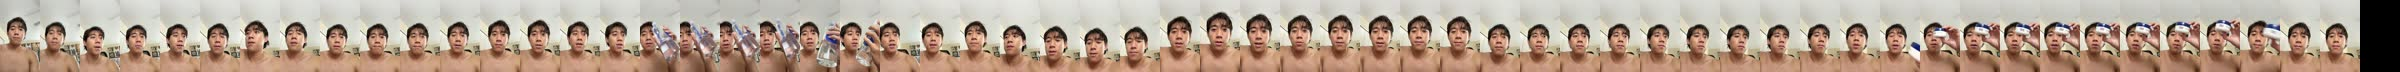
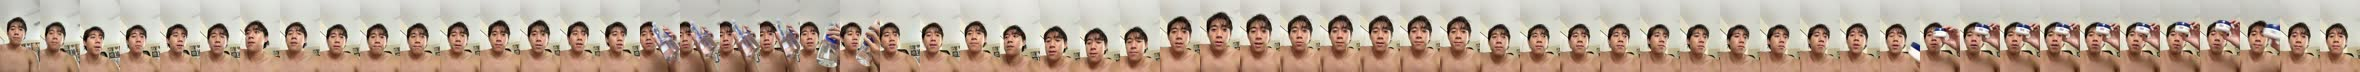
Publish from takesai site/ at 4870640a

diff --git a/checkout/checkout.js b/checkout/checkout.js
@@ -6,8 +6,9 @@
 const CHECKOUT_BASE = "https://beoxhscgtofgsizqzixz.supabase.co/functions/v1";
 const CHECKOUT_ENDPOINT = CHECKOUT_BASE && CHECKOUT_BASE + "/create-checkout";
 const STATUS_ENDPOINT = CHECKOUT_BASE && CHECKOUT_BASE + "/checkout-status";
-// GET ?code= -> { ok: true, trial_days, trial_edits } or { ok: false, error: "bad_code" }. A 404 (not deployed) or a
-// network error leaves the code for create-checkout to check, as before.
+// GET ?code= -> { ok: true, trial_days, trial_edits }, { ok: true, free: true, plan: "ultimate" } (a free code, M-89: TVAFREE)
+// or { ok: false, error: "bad_code" | "code_used_up" }. A 404 (not deployed) or a network error leaves the code for
+// create-checkout to check, as before.
 const CHECK_ENDPOINT = CHECKOUT_BASE && CHECKOUT_BASE + "/check-code";
 // Until 1.0.0 is on the App Store, the fallback goes to the beta page (M-84); at release: "https://apps.apple.com/app/id6833252992".
 const APP_STORE = "/beta/";
@@ -30,7 +31,8 @@ function checkoutPage() {
   const form = $("checkout"), start = $("start"), msg = $("msg"), code = $("code"), applyBtn = $("apply"), codeMsg = $("code-msg");
   // ?trial=0 is the reused-trial email's link (contract section 5): the plan without a trial.
   let busy = false, noTrial = params.get("trial") === "0", shown = "";
-  let applied = null; // the code as last applied: { code, days, edits }, or { code, unverified: true } when it can't be checked here
+  const h1 = document.querySelector("h1"), h1Text = h1.textContent, title = document.title; // the page's own heading
+  let applied = null; // the code as last applied: { code, days, edits }, { code, free: true }, or { code, unverified: true } when it can't be checked here
 
   // ?plan= and ?period= preselect; a value matching no radio leaves the default checked.
   for (const name of ["plan", "period"]) if (params.get(name)) form.elements[name].value = params.get(name);
@@ -46,14 +48,23 @@ function checkoutPage() {
     const yearly = pick("period") === "yearly";
     const price = row.querySelector(yearly ? ".y b" : ".m b").textContent;
     const per = yearly ? "a year" : "a month";
-    const saleYearly = sale && yearly;
+    const free = !!(applied && applied.free), saleYearly = sale && yearly && !free;
     let days, now = "$0 today.", then;
-    if (saleYearly) { // the sale price wins over a code's or link's trial (decision 12)
+    // A free code (M-89): Ultimate only, free for life, no period and no renewal box; it wins over a sale.
+    form.classList.toggle("free-on", free);
+    form.querySelector(".seg").hidden = free;
+    for (const label of form.querySelectorAll(".plan")) label.hidden = free && label.querySelector("input").value !== "ultimate";
+    form.elements.renews.required = !free;
+    $("consent").hidden = free || !CHECKOUT_ENDPOINT;
+    if (free) {
+      days = "For life";
+      now = "$0.00 today.";
+      then = "Free for life. Nothing renews at a cost.";
+    } else if (saleYearly) { // the sale price wins over a code's or link's trial (decision 12)
       days = "50% off your first year";
       now = `${price} today for your first year.`;
       then = `Then ${row.querySelector(".y").dataset.regular} a year plus any tax from ${dateIn(365)}, renewing until you cancel.`;
     } else if (noTrial) {
-      document.querySelector("h1").textContent = document.title = "Subscribe to TakesAI";
       days = "Already used";
       now = `${price} today.`;
       then = `Renews at ${price} ${per} plus any tax until you cancel.`;
@@ -68,10 +79,13 @@ function checkoutPage() {
       days = `${n} days`;
       then = `Then ${price} ${per} plus any tax from ${dateIn(n)}, renewing until you cancel. Cancel before then and you pay nothing.`;
     }
-    $("trial-label").textContent = saleYearly ? "Black Friday" : applied && applied.days ? `Free trial · ${applied.code.toUpperCase()}` : "Free trial";
-    if (sale) document.querySelector("h1").textContent = document.title = saleYearly || noTrial ? "Subscribe to TakesAI" : "Start your free trial";
+    $("trial-label").textContent = free ? `Ultimate · ${applied.code.toUpperCase()}` : saleYearly ? "Black Friday" : applied && applied.days ? `Free trial · ${applied.code.toUpperCase()}` : "Free trial";
+    const heading = free ? "Get Ultimate free" : saleYearly || noTrial ? "Subscribe to TakesAI" : null;
+    h1.textContent = heading || h1Text;
+    document.title = heading || title;
     $("trial-days").textContent = days;
     document.body.classList.toggle("sale-y", saleYearly);
+    document.body.classList.toggle("free-y", free);
     $("due-now").textContent = now;
     $("due-then").textContent = then;
     if (!busy) start.textContent = cta();
@@ -91,6 +105,7 @@ function checkoutPage() {
 
   // The button says what starts: "Start 30-day free trial", or Subscribe when there's no trial.
   function cta() {
+    if (applied && applied.free) return "Get Ultimate free";
     if (noTrial || (sale && pick("period") === "yearly")) return "Subscribe";
     const n = applied ? applied.days : referral() ? 7 : 3;
     return n ? `Start ${n}-day free trial` : "Start free trial";
@@ -113,13 +128,21 @@ function checkoutPage() {
       const r = await fetch(`${CHECK_ENDPOINT}?code=${encodeURIComponent(typed)}`);
       if (r.status === 404 || r.status >= 500) throw new Error("unavailable");
       const d = await r.json().catch(() => ({}));
-      if (r.ok && d.ok && d.trial_days > 0) {
+      if (r.ok && d.ok && d.free) {
+        applied = { code: typed, free: true };
+        form.elements.plan.value = "ultimate";
+        note(`${typed.toUpperCase()} applied: Ultimate, free for life.`, "ok");
+        ok = true;
+      } else if (r.ok && d.ok && d.trial_days > 0) {
         applied = { code: typed, days: d.trial_days, edits: d.trial_edits };
         note(`${typed.toUpperCase()} applied: ${d.trial_days} days free` + (d.trial_edits ? `, up to ${d.trial_edits} edits during the trial.` : "."), "ok");
         ok = true;
       } else if (r.status === 429) {
         applied = null;
         note("Too many tries in a row. Wait a minute, then apply it again.", "bad");
+      } else if (d.error === "code_used_up") {
+        applied = null;
+        note(`${typed.toUpperCase()} has been fully claimed. Ask whoever gave you the code.`, "bad");
       } else {
         applied = null;
         note(`We don't recognize ${typed.toUpperCase()}. Check the code, or leave it empty.`, "bad");
@@ -178,9 +201,10 @@ function checkoutPage() {
     };
     const typed = code.value.trim(), ref = referral(); // no email: Stripe Checkout collects it
     if (typed && !applied) { // typed but never applied: apply it and show what it gives; the next tap goes on
-      if (await applyCode()) note(codeMsg.textContent + " Check your trial, then tap the button again.", "ok");
+      if (await applyCode()) note(codeMsg.textContent + (applied && applied.free ? " Tap the button again." : " Check your trial, then tap the button again."), "ok");
       return;
     }
+    if (applied && applied.free) { body.plan = "ultimate"; body.period = "yearly"; } // the server decides anyway (v6)
     if (applied) body.code = applied.code;
     if (ref) body.referral = ref;
     if (noTrial) body.trial = false; // after 409 trial_used: the plan without a trial (the App shell must accept this field)
@@ -200,7 +224,15 @@ function checkoutPage() {
 
     setBusy(false);
     const error = res.status >= 500 ? "unavailable" : res.status === 429 ? "rate_limited" : data.error;
-    if (error === "bad_code") {
+    if (error === "code_used_up") {
+      say(`${typed.toUpperCase()} has been fully claimed. Ask whoever gave you the code, or choose a plan without it.`, "Continue without a code", () => {
+        code.value = "";
+        applied = null;
+        note("");
+        edited();
+        start.focus();
+      });
+    } else if (error === "bad_code") {
       say(`We don't recognize the code ${typed.toUpperCase()}. Check it, or continue without a code.`, "Continue without a code", () => {
         code.value = "";
         applied = null;
@@ -273,6 +305,24 @@ function newId() {
   return window.crypto && crypto.randomUUID ? crypto.randomUUID() : Date.now().toString(36) + Math.random().toString(36).slice(2);
 }
 
+// A second use of a free code by the same email or account (M-89): the webhook cancelled it; nothing was charged.
+function alreadyFree() {
+  document.title = "You already have free Ultimate · TakesAI";
+  $("done-h").textContent = "You already have free Ultimate";
+  $("done-lede").textContent = "This email already has it, so we didn't start a second one. Sign in to TakesAI with it.";
+  $("redeem").hidden = true;
+  $("receipt-sec").hidden = true;
+}
+
+// A free code's success (M-89): free for life, and a note for anyone already paying in a store.
+function freeDone() {
+  document.title = "Ultimate is yours · TakesAI";
+  $("done-h").textContent = "Ultimate is yours, free for life";
+  $("done-lede").textContent = "Get the app and sign in with the email you used. Ultimate is there.";
+  $("cancel-line").hidden = true;
+  $("store-note").hidden = false;
+}
+
 // Success page: poll checkout-status every 2 seconds for up to 30, then show the redeem link and code.
 function donePage() {
   const id = params.get("session_id");
@@ -285,6 +335,8 @@ function donePage() {
     try {
       const data = await (await fetch(url)).json();
       if (data && data.status === "trial_used") return trialUsed();
+      if (data && data.status === "already_free") return alreadyFree();
+      if (data && data.free) freeDone();
       const r = data && data.redeem;
       if (r && typeof r.url === "string" && r.url.startsWith("https://") && typeof r.code === "string") {
         $("open").href = r.url;

diff --git a/assets/home.js b/assets/home.js
@@ -42,7 +42,7 @@
     var undo = '<svg class="undo" viewBox="0 0 16 16"><path d="M6 10.5 2.5 7 6 3.5"/><path d="M2.5 7h7a4 4 0 0 1 4 4v1.5"/></svg>';
     var redo = '<svg class="redo" viewBox="0 0 16 16"><circle cx="4" cy="4" r="2"/><circle cx="4" cy="12" r="2"/><path d="M14 3 5.5 10.5M10 10l4 3M5.5 5.5 8 8"/></svg>';
     var play = '<svg class="play" viewBox="0 0 16 16"><path d="M5 3.5v9l7-4.5z"/></svg>';
-    var D, RAW_S, SEGS, CUTS, WAVE, STEP, drawnW = 0, LINES = [], total, timers = [], raf = 0, phase = 'idle', mode = 'after', visible = false, started = false, paused = false, shown = -1, capKey = '';
+    var D, RAW_S, SEGS, CUTS, WAVE, STEP, FRAMES, drawnW = 0, LINES = [], total, timers = [], raf = 0, phase = 'idle', mode = 'after', visible = false, started = false, paused = false, shown = -1, capKey = '';
     var later = function (fn, ms) { timers.push(setTimeout(fn, ms)); };
 
     fetch('assets/demo/demo.json').then(function (r) { return r.json(); }).then(build).catch(function () {});
@@ -53,12 +53,13 @@
 
     function build(d) {
       D = d.duration; RAW_S = d.rawS; SEGS = d.segments; CUTS = SEGS.filter(function (sg) { return sg.cut; });
-      WAVE = d.wave; STEP = d.waveStep;
+      WAVE = d.wave; STEP = d.waveStep; FRAMES = d.stripFrames;
+      con.style.setProperty('--n', FRAMES); con.style.setProperty('--fa', d.stripAspect); // the filmstrip sprite (home.css .strip i)
       receipt.innerHTML = '<li class="head"><span>Your video</span><span>' + mm(RAW_S) + '</span></li>';
       SEGS.forEach(function (sg) {
         var len = sg.e - sg.s, el = document.createElement('div');
         el.className = 'clip'; el.style.setProperty('--g', len.toFixed(3));
-        el.innerHTML = '<div class="wave"></div><div class="strip" style="--k:' + Math.floor(sg.s * 2) + '"></div>';
+        el.innerHTML = '<div class="wave"></div><div class="strip"></div>';
         track.insertBefore(el, ph); sg.el = el;
         el.addEventListener('click', function () { seekTo(sg); });
         if (!sg.cut) return;
@@ -82,6 +83,9 @@
       });
       $('m-before').textContent = mm(RAW_S);
       waves(); new ResizeObserver(waves).observe(track); // a window narrowed or a phone turned redraws the bars to fit
+      // Each part's frames follow its width as it grows or closes up (After, a restore, a resize).
+      var ro = new ResizeObserver(function (es) { es.forEach(function (e) { SEGS.forEach(function (sg) { if (sg.el === e.target) strip(sg); }); }); });
+      SEGS.forEach(function (sg) { ro.observe(sg.el); });
       labels();
       if (visible) begin();
     }
@@ -100,6 +104,15 @@
         }
         sg.el.firstChild.innerHTML = w;
       });
+    }
+
+    // Frames by time, like the waveform: about one frame per frame-width of the part, each the frame at its tile's middle.
+    function strip(sg) {
+      var el = sg.el.lastChild, fw = el.clientHeight * parseFloat(con.style.getPropertyValue('--fa')), len = sg.e - sg.s, out = '';
+      if (!fw) return;
+      var n = Math.max(1, Math.round(sg.el.clientWidth / fw));
+      for (var i = 0; i < n; i++) out += '<i style="--f:' + Math.min(FRAMES - 1, Math.round((sg.s + len * (i + 0.5) / n) * 2)) + '"></i>';
+      if (el.innerHTML !== out) el.innerHTML = out;
     }
 
     // ---- time and geometry ----

diff --git a/assets/home.css b/assets/home.css
@@ -115,7 +115,9 @@
 .clip:last-child { margin-right: 0; }
 .wave { flex: 1; display: flex; align-items: center; gap: 2px; padding: 0 2px; border-radius: 8px; background: var(--fill); overflow: hidden; transition: background-color 0.4s, box-shadow 0.3s; }
 .wave i { flex: 1; min-width: 1px; height: var(--a); border-radius: 2px; background: var(--bar); transition: background-color 0.4s; }
-.strip { --sh: 40px; height: var(--sh); border-radius: 6px; position: relative; overflow: hidden; background: url(demo/strip.jpg) no-repeat; background-size: auto 100%; background-position: calc(var(--k, 0) * var(--sh) * -0.5556) 0; } /* each part shows its own frames, at their true shape */
+.strip { --sh: 40px; height: var(--sh); border-radius: 6px; position: relative; overflow: hidden; display: flex; }
+/* One tile per frame-width (home.js strip()): frame --f of the sprite's --n, centred in its tile, never stretched. */
+.strip i { flex: 1 1 0; min-width: 0; background: url(demo/strip.jpg) no-repeat; background-size: auto 100%; background-position: calc(50% + (var(--n) / 2 - var(--f) - 0.5) * var(--sh) * var(--fa)) 0; } /* each part shows its own frames, at their true shape */
 .strip::after { content: ""; position: absolute; inset: 0; background: repeating-linear-gradient(135deg, rgb(255 90 106 / 0.6) 0 2px, transparent 2px 6px), rgb(184 29 50 / 0.5); opacity: 0; transition: opacity 0.4s; }
 .clip.flag .wave { background: color-mix(in srgb, var(--red) 12%, transparent); box-shadow: inset 0 0 0 1px color-mix(in srgb, var(--red) 45%, transparent); }
 .clip.flag .wave i { background: var(--red); }

diff --git a/terms/index.html b/terms/index.html
@@ -72,6 +72,7 @@
   <li><strong>Taxes.</strong> Prices do not include sales tax, GST or VAT unless we say so. Any tax is worked out from your location and shown at checkout before you pay.</li>
   <li id="web-refunds"><strong>Refunds.</strong> Payments for plans bought on takesai.app are not refundable, except where the law requires. If something went wrong, email <a href="mailto:support@takesai.app">support@takesai.app</a>: we look at each request and may give a refund where we think it is fair. Your consumer rights (section 15) are not affected.</li>
   <li><strong>Using your plan in the app.</strong> A plan bought on takesai.app works in the app once you sign in to the account it is linked to. It is the same plan with the same edits and limits. If you subscribe both on takesai.app and in an app store, you pay for both until you cancel one.</li>
+  <li id="partner-codes"><strong>Free plans from partner codes.</strong> Some partner codes give a plan free of charge, with nothing to pay now or later. It lasts as long as your account, with the same edits and limits as the paid plan. One per person. We may end it if the code was obtained or shared against these terms, or if the plan is misused. You can cancel it at any time.</li>
   <li><strong>Apple and Google</strong> are not involved in purchases made on takesai.app and cannot refund or manage them.</li>
 </ul>
 

diff --git a/checkout/checkout.css b/checkout/checkout.css
@@ -78,5 +78,9 @@
 .plan .y s { color: var(--text-3); font-weight: 400; }
 /* During the sale the price line is longer, so it sits under the plan name instead of beside it. */
 .sale-on .plan .price { grid-column: 2 / -1; grid-row: auto; text-align: left; }
+/* A free code (M-89): Ultimate alone, its price struck through and "Free" under it. */
+.free-on .plan .price b, .free-on .plan .price small { text-decoration: line-through; color: var(--text-3); }
+.free-on .plan .price::after { content: "Free"; display: block; margin-top: 6px; font: 600 22px/1 var(--mono); letter-spacing: -0.03em; color: var(--text); }
 .sale-y .trial-only, .sale-only { display: none; }
 .sale-y .sale-only { display: list-item; }
+.free-only, .free-y .fine li:not(.free-only) { display: none; } .free-y .free-only { display: list-item; } /* M-89 */

diff --git a/checkout/done/index.html b/checkout/done/index.html
@@ -48,10 +48,11 @@
 </ol>
 </section>
 
-<section aria-labelledby="receipt-h">
+<section aria-labelledby="receipt-h" id="receipt-sec">
 <h2 id="receipt-h">Your receipt</h2>
 <p>Stripe, our payment processor, emails your receipt to the address you used at checkout.</p>
-<p>Cancel anytime at <a href="../../cancel/">takesai.app/cancel</a>. Cancel during the trial and you pay nothing.</p>
+<p id="cancel-line">Cancel anytime at <a href="../../cancel/">takesai.app/cancel</a>. Cancel during the trial and you pay nothing.</p>
+<p id="store-note" hidden>Already paying for TakesAI in the App Store or Google Play? Cancel that subscription there so you're not charged twice.</p>
 </section>
 </main>
 <footer class="site-footer">

diff --git a/checkout/index.html b/checkout/index.html
@@ -88,6 +88,9 @@
 </form>
 
 <ul class="fine">
+  <li class="free-only">One free Ultimate per person. No card needed.</li>
+  <li class="free-only">Cancel anytime at <a href="../cancel/">takesai.app/cancel</a>.</li>
+  <li class="free-only">Free plans from partner codes follow our <a href="../terms/#web-purchases">Terms of Use</a>.</li>
   <li class="trial-only">One free trial per person.</li>
   <li class="trial-only">A card is required to start. You aren't charged until the trial ends.</li>
   <li class="sale-only">Black Friday prices are for your first year on a yearly plan, paid today, with no free trial. Then the regular yearly price.</li>
